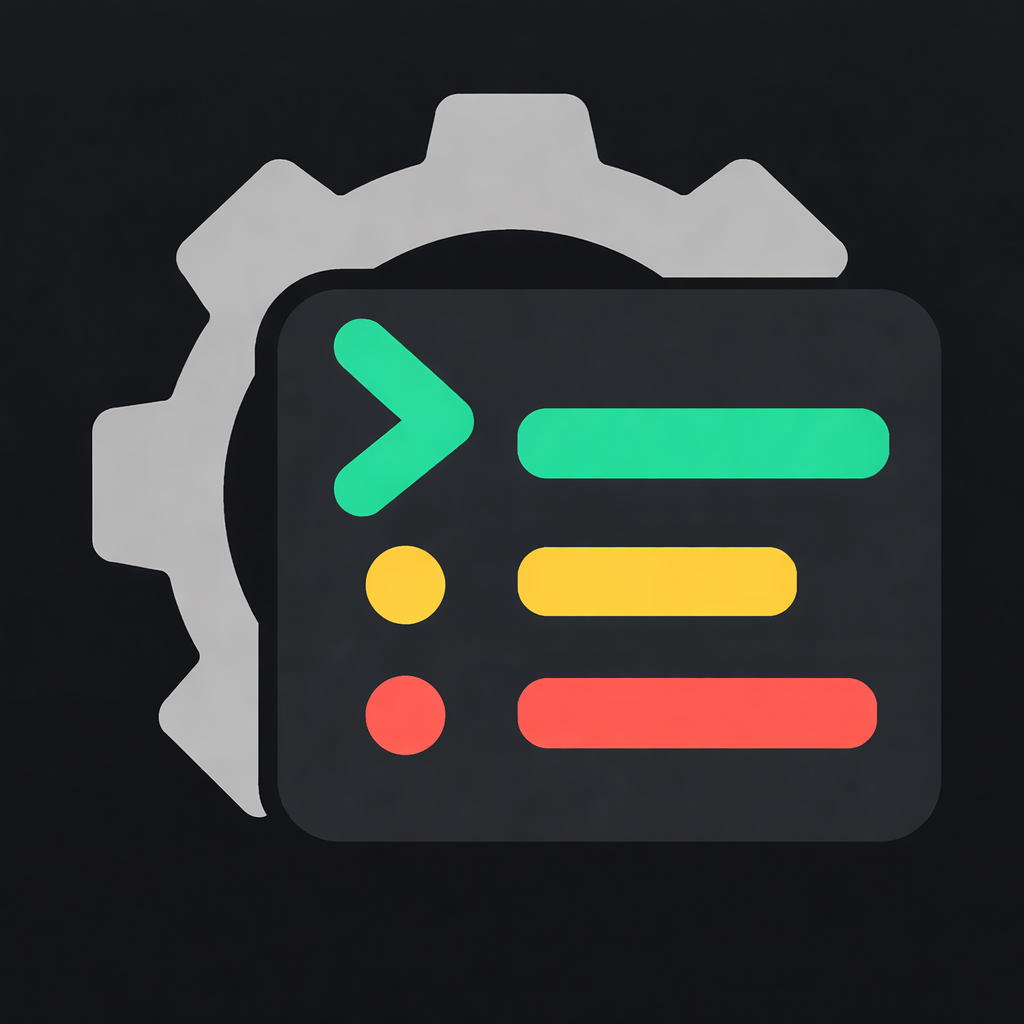
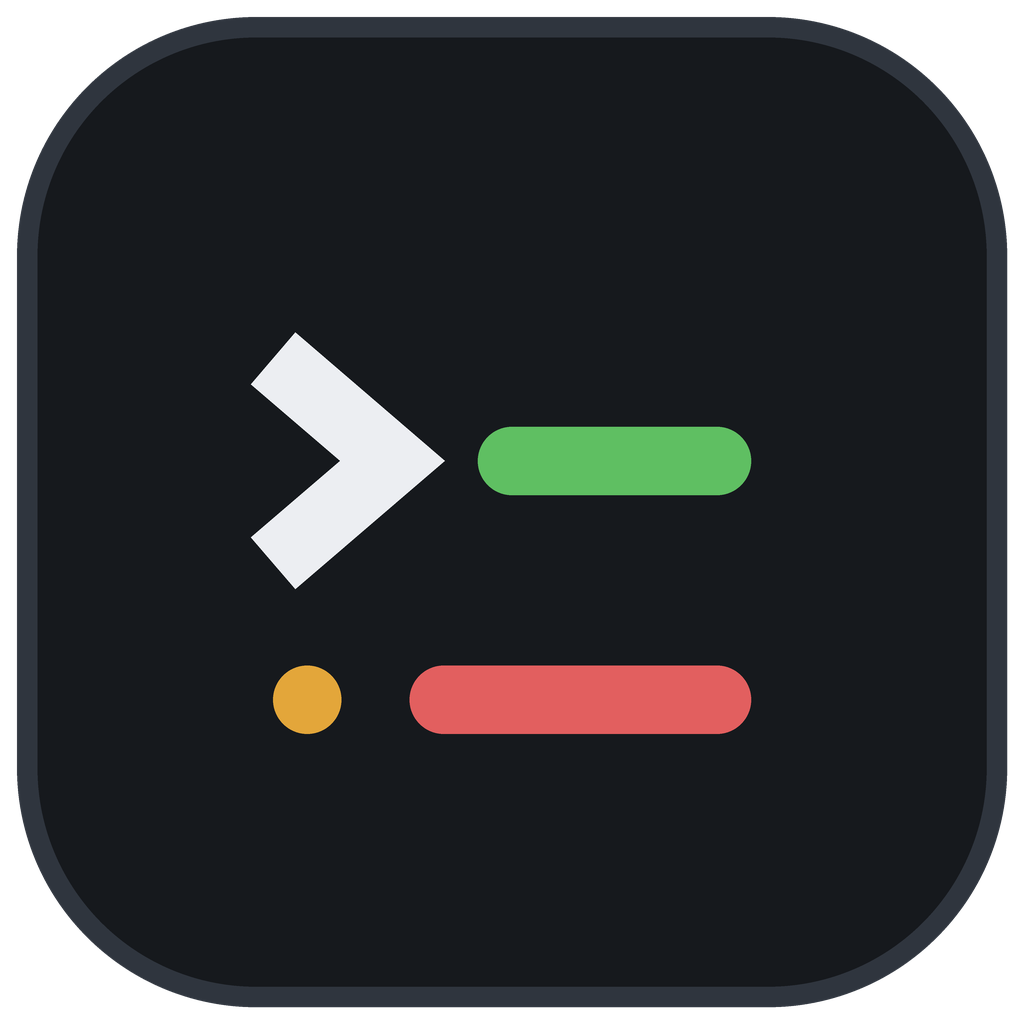
Release 2.1.0
Terminals for processes (plain output, Terminal (auto), Terminal (screen first)) and the
header's mark as the app icon, with a macOS copy on Apple's icon grid.

diff --git a/scripts/render-icon.py b/scripts/render-icon.py
@@ -1,0 +1,91 @@
+"""Renders the app icon from the mark the header paints (`paint_mark` in src/ui/header.rs).
+
+Writes assets/icon.png (Windows and the window icon: the tile fills the canvas) and
+assets/icon-macos.png (the tile on Apple's icon grid, 824 of 1024 with a soft shadow).
+Run from the repository root: uv run --with pillow python scripts/render-icon.py
+"""
+
+from PIL import Image, ImageDraw, ImageFilter
+
+SIZE = 1024
+SUPER = 4  # drawn at 4x and scaled down for smooth edges
+
+PANEL2 = (0x16, 0x19, 0x1D, 255)
+BORDER = (0x2F, 0x35, 0x3E, 255)
+TEXT = (0xEC, 0xEE, 0xF2, 255)
+GREEN = (0x5F, 0xBF, 0x62, 255)
+AMBER = (0xE3, 0xA6, 0x3A, 255)
+RED = (0xE2, 0x5F, 0x5F, 255)
+
+
+def chevron(points, half):
+    """The outline of a two-segment stroke `half` wide each side, with a mitred join and butt
+    ends, as egui strokes the prompt."""
+    (ax, ay), (bx, by), (cx, cy) = points
+
+    def normal(x0, y0, x1, y1):
+        dx, dy = x1 - x0, y1 - y0
+        length = (dx * dx + dy * dy) ** 0.5
+        return -dy / length, dx / length
+
+    n1 = normal(ax, ay, bx, by)
+    n2 = normal(bx, by, cx, cy)
+    mx, my = n1[0] + n2[0], n1[1] + n2[1]
+    scale = half / (mx * n1[0] + my * n1[1])  # the miter's length along the bisector
+    mx, my = mx * scale, my * scale
+    return [
+        (ax + n1[0] * half, ay + n1[1] * half),
+        (bx + mx, by + my),
+        (cx + n2[0] * half, cy + n2[1] * half),
+        (cx - n2[0] * half, cy - n2[1] * half),
+        (bx - mx, by - my),
+        (ax - n1[0] * half, ay - n1[1] * half),
+    ]
+
+
+def mark(tile: int) -> Image.Image:
+    """The mark on a transparent square of `tile` pixels, on its 30-unit grid."""
+    px = tile * SUPER
+    s = px / 30.0
+    image = Image.new("RGBA", (px, px), (0, 0, 0, 0))
+    draw = ImageDraw.Draw(image)
+
+    def p(x, y):
+        return (x * s, y * s)
+
+    def pill(x, y, w, h, color):
+        draw.rounded_rectangle([p(x, y), p(x + w, y + h)], radius=min(w, h) / 2 * s, fill=color)
+
+    # A thinner edge than the header's 1 point: at icon sizes a full unit reads as a frame.
+    draw.rounded_rectangle(
+        [p(0.5, 0.5), p(29.5, 29.5)], radius=7 * s, fill=PANEL2, outline=BORDER, width=round(0.6 * s)
+    )
+    draw.polygon([p(x, y) for x, y in chevron([(8, 10.5), (11.5, 13.5), (8, 16.5)], 1.0)], fill=TEXT)
+    pill(14, 12.5, 8, 2, GREEN)
+    pill(8, 19.5, 2, 2, AMBER)
+    pill(12, 19.5, 10, 2, RED)
+    return image.resize((tile, tile), Image.LANCZOS)
+
+
+def windows() -> Image.Image:
+    return mark(SIZE)
+
+
+def macos() -> Image.Image:
+    body = 824
+    tile = round(body * 30 / 29)  # the grid's tile spans 29 of its 30 units
+    canvas = Image.new("RGBA", (SIZE, SIZE), (0, 0, 0, 0))
+    art = mark(tile)
+    offset = (SIZE - tile) // 2
+
+    shadow = Image.new("RGBA", (SIZE, SIZE), (0, 0, 0, 0))
+    alpha = art.split()[3].point(lambda a: a * 0.45)
+    shadow.paste((0, 0, 0, 255), (offset, offset + 12), alpha)
+    canvas.alpha_composite(shadow.filter(ImageFilter.GaussianBlur(14)))
+    canvas.alpha_composite(art, (offset, offset))
+    return canvas
+
+
+if __name__ == "__main__":
+    windows().save("assets/icon.png")
+    macos().save("assets/icon-macos.png")

diff --git a/src/ui/format.rs b/src/ui/format.rs
@@ -240,7 +240,6 @@ pub fn skip_text(process: &ProcessConfig) -> String {
     }
 }
 
-/// The badges under a process's name.
 /// The Output choices in a process's settings, in menu order.
 pub const TERMINAL_MODES: [TerminalMode; 3] =
     [TerminalMode::Off, TerminalMode::Auto, TerminalMode::Screen];
@@ -249,8 +248,8 @@ pub const TERMINAL_MODES: [TerminalMode; 3] =
 pub fn terminal_mode_label(mode: TerminalMode) -> &'static str {
     match mode {
         TerminalMode::Off => "Plain output",
-        TerminalMode::Auto => "Terminal",
-        TerminalMode::Screen => "Terminal, opens on its screen",
+        TerminalMode::Auto => "Terminal (auto)",
+        TerminalMode::Screen => "Terminal (screen first)",
     }
 }
 
@@ -262,16 +261,18 @@ pub fn terminal_mode_hint(mode: TerminalMode) -> &'static str {
              terminal may refuse to start or draw badly."
         }
         TerminalMode::Auto => {
-            "Runs in a terminal. The log keeps the program's colours and progress bars update \
-             in place; a full-screen program switches the console to its screen."
+            "For anything that wants a terminal, TUIs included. The log keeps the program's \
+             colours and progress bars update in place; when it goes full screen (a TUI), the \
+             console switches to its screen, and back when it leaves."
         }
         TerminalMode::Screen => {
-            "Runs in a terminal and opens on its screen, where you can type into it. Its \
-             lines still reach the log."
+            "Runs in a terminal and always opens on its screen, where you can type into it: \
+             for REPLs and prompts. Its lines still reach the log."
         }
     }
 }
 
+/// The badges under a process's name.
 pub fn badges(process: &ProcessConfig) -> Vec<String> {
     let mut badges = vec![match process.process_type {
         ProcessType::Process => "Process".to_string(),
@@ -280,8 +281,8 @@ pub fn badges(process: &ProcessConfig) -> Vec<String> {
     if process.process_type == ProcessType::Process {
         match process.terminal_mode {
             TerminalMode::Off => {}
-            TerminalMode::Auto => badges.push("In a terminal".into()),
-            TerminalMode::Screen => badges.push("In a terminal · opens on its screen".into()),
+            TerminalMode::Auto => badges.push("In a terminal · auto".into()),
+            TerminalMode::Screen => badges.push("In a terminal · screen first".into()),
         }
     }
     if process.auto_start {

diff --git a/CHANGELOG.md b/CHANGELOG.md
@@ -2,9 +2,9 @@
 
 Versions follow [Semantic Versioning](https://semver.org); see `AGENTS.md` for the rules.
 
-## Unreleased
+## 2.1.0
 
-Planned as 2.1.0: new features, and existing `processes.json` files run exactly as before.
+Terminals, and a new app icon. Existing `processes.json` files run exactly as before.
 
 ### New
 
@@ -12,9 +12,11 @@ Planned as 2.1.0: new features, and existing `processes.json` files run exactly 
   pseudo-terminal on macOS) instead of pipes, so tools that check for one behave as they do in a
   shell: Rich, coloured loggers and test runners keep their colours, progress bars from pip,
   cargo, npm or Rich update one line in place, and Python flushes its output as it goes.
-  - **Terminal**: the log keeps colour and redraws; when the program goes full screen (a Textual
-    app, htop, a TUI), the console switches to its **Screen** and back when it leaves.
-  - **Terminal, opens on its screen**: for interactive tools such as REPLs and prompts.
+  - **Terminal (auto)**: for anything that wants a terminal, TUIs included. The log keeps colour
+    and redraws; when the program goes full screen (a Textual app, htop, a ratatui dashboard),
+    the console switches to its **Screen** and back when it leaves.
+  - **Terminal (screen first)**: for interactive tools such as REPLs and prompts, which never go
+    full screen; the console always opens on the Screen tab.
 - The Screen tab: the program's screen as it draws it, with typing, paste, the mouse and Ctrl+C
   going to it while it has focus (the window's shortcuts wait meanwhile). Copy screen copies its
   text. A program that has ended leaves its last screen.
@@ -25,6 +27,8 @@ Planned as 2.1.0: new features, and existing `processes.json` files run exactly 
 
 ### Changed
 
+- A new app icon, the header's mark: a prompt and three status bars on a dark tile. macOS gets
+  its own copy on Apple's icon grid. `scripts/render-icon.py` draws both.
 - Nothing for existing configs: a process without `terminal_mode` (every config before this)
   runs through pipes as it always did, and `Off` is never written back.
 

diff --git a/README.md b/README.md
@@ -45,8 +45,8 @@ Each process gets a console: its status in plain words, the command and where it
 Tools with rich output (Python's Rich, progress bars from pip, cargo or npm, coloured test runners) and full-screen programs (Textual apps, htop, lazygit, REPLs) check whether they are talking to a terminal. Through plain pipes they are not, so they drop their colour, hold back their progress bars, buffer their output or refuse to start. A process's **Output** setting can run it in a terminal instead (ConPTY on Windows, a pseudo-terminal on macOS) that Process Manager emulates:
 
 - **Plain output**: pipes, as before. The default, and what every `processes.json` without the setting gets.
-- **Terminal**: the log keeps the program's colours, and a progress bar or a live table updates its line in place instead of printing a hundred copies. When the program goes full screen, the console switches to its **Screen** tab, and back to the log when it leaves.
-- **Terminal, opens on its screen**: for interactive tools. The console opens on the Screen tab.
+- **Terminal (auto)**: for anything that wants a terminal, TUIs included. The log keeps the program's colours, and a progress bar or a live table updates its line in place instead of printing a hundred copies. When the program goes full screen, the console switches to its **Screen** tab, and back to the log when it leaves.
+- **Terminal (screen first)**: for interactive tools such as REPLs and prompts, which never go full screen. The console always opens on the Screen tab.
 
 ![Terminal output](images/terminal.png)
 
